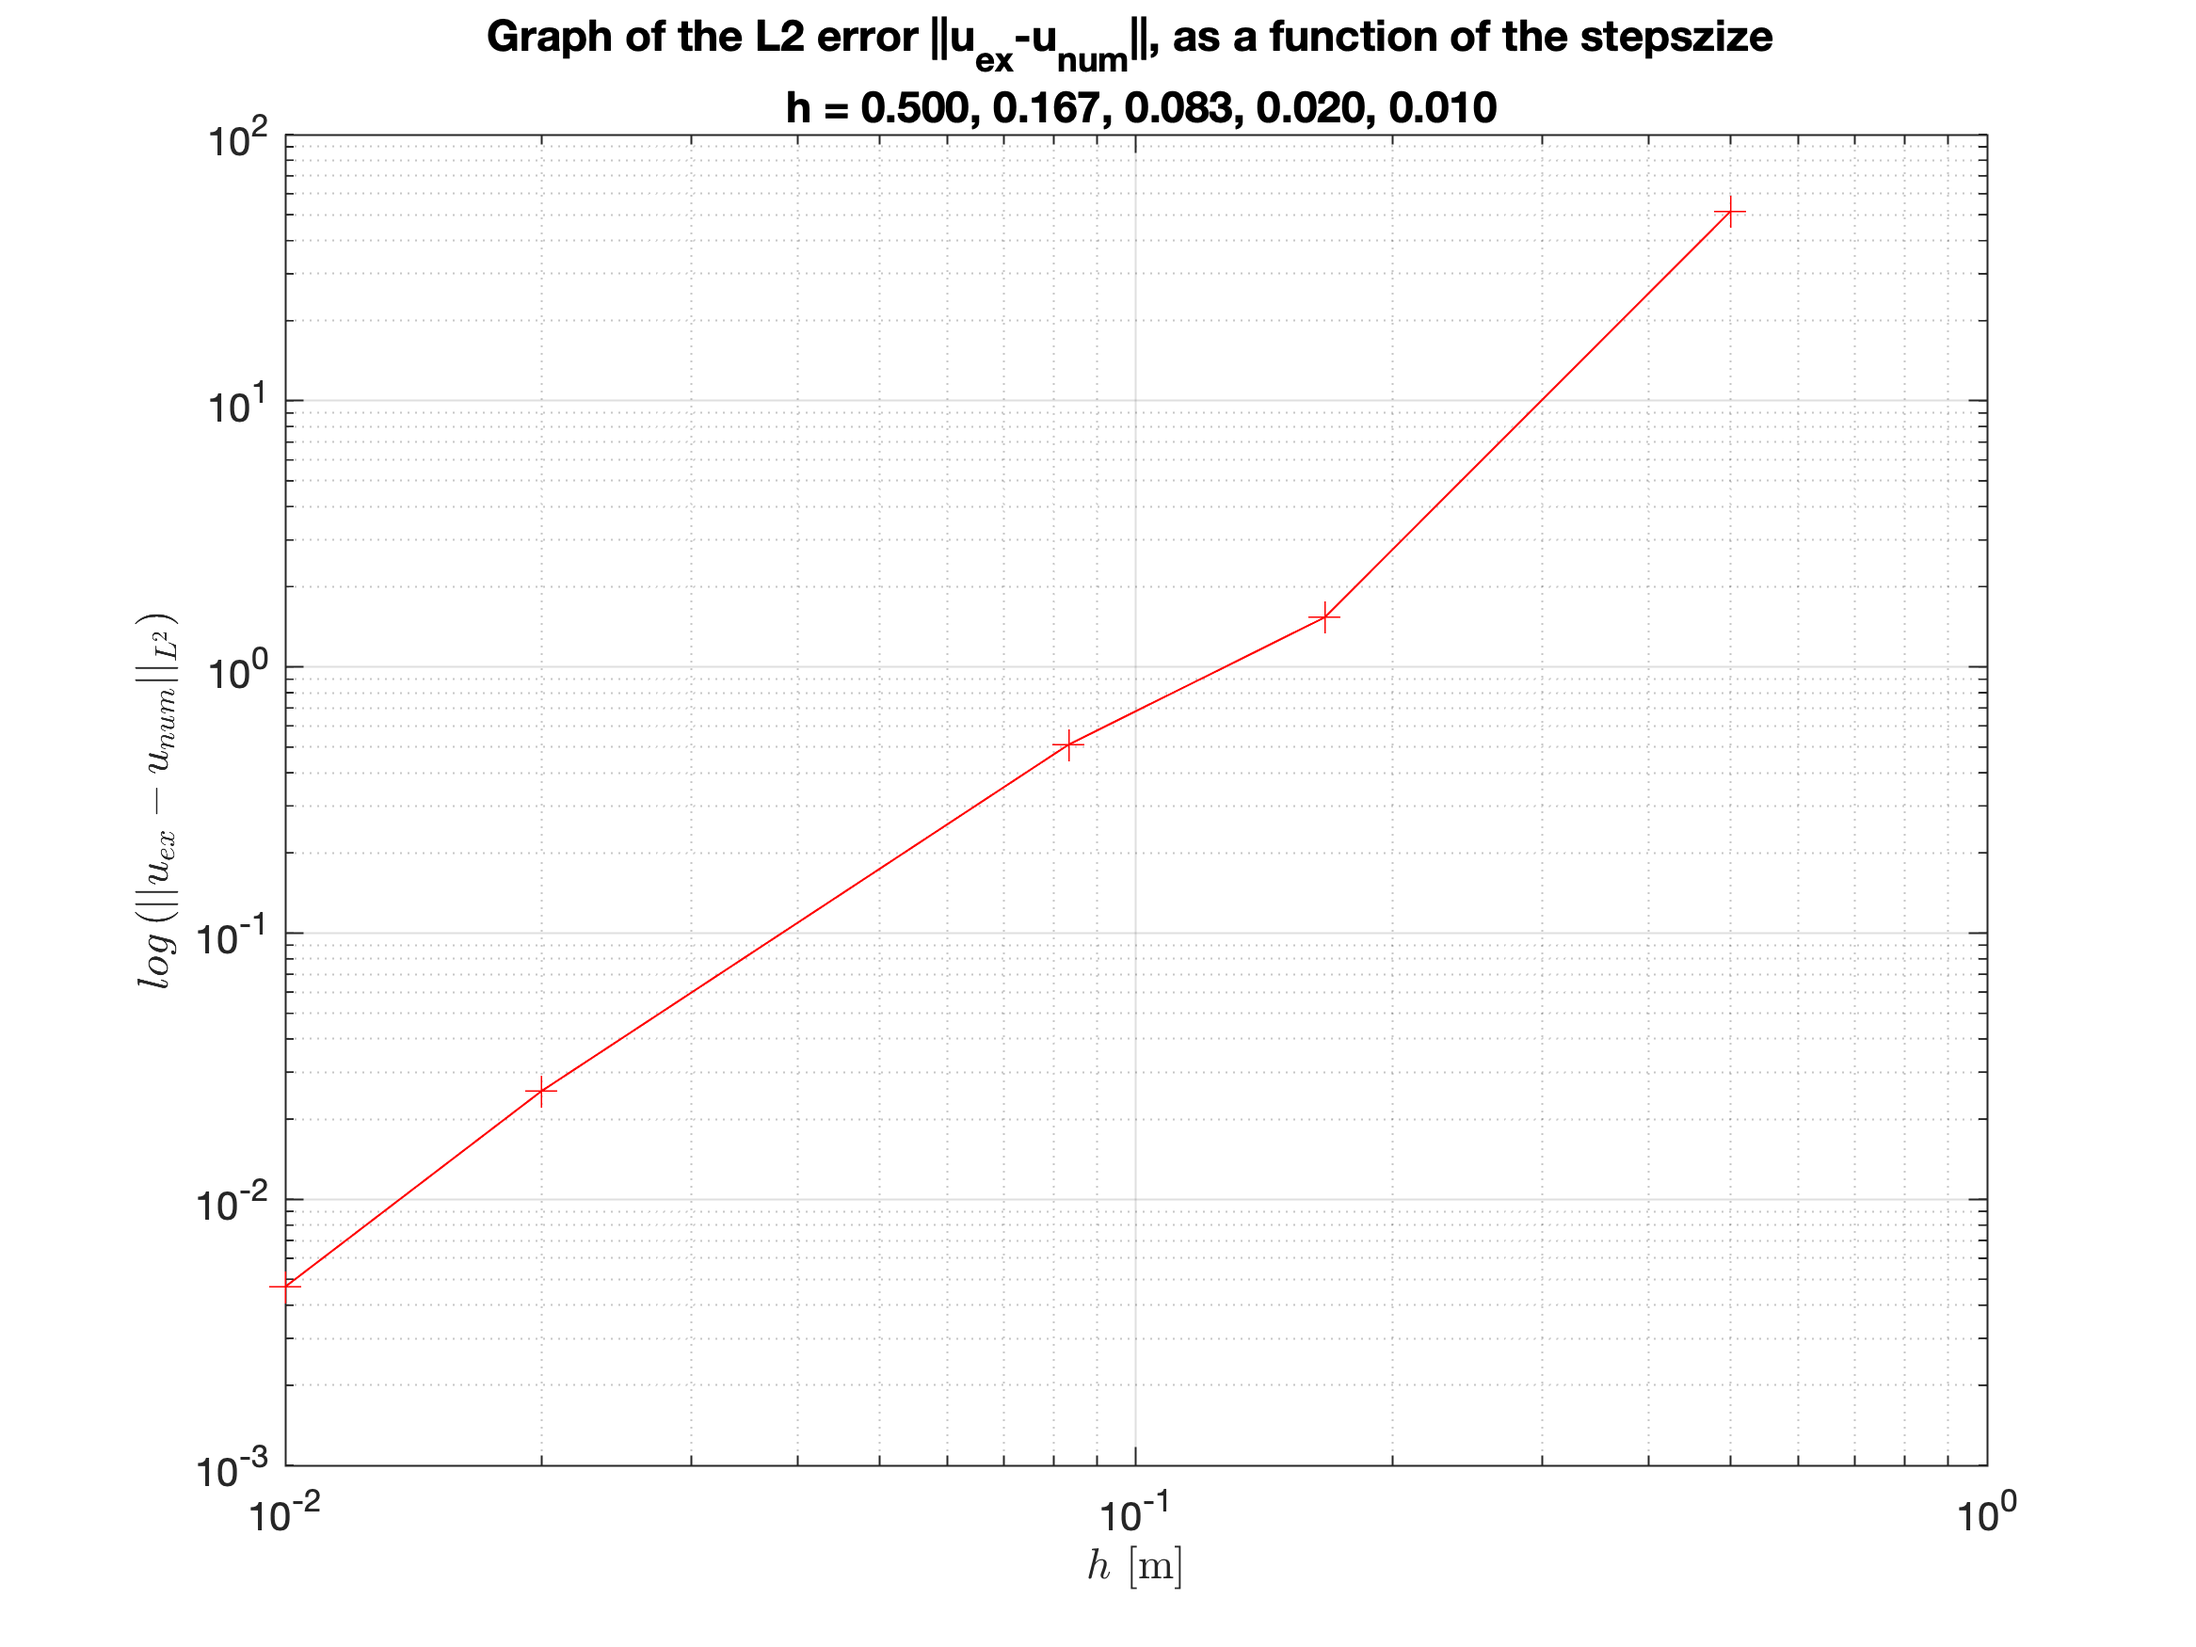
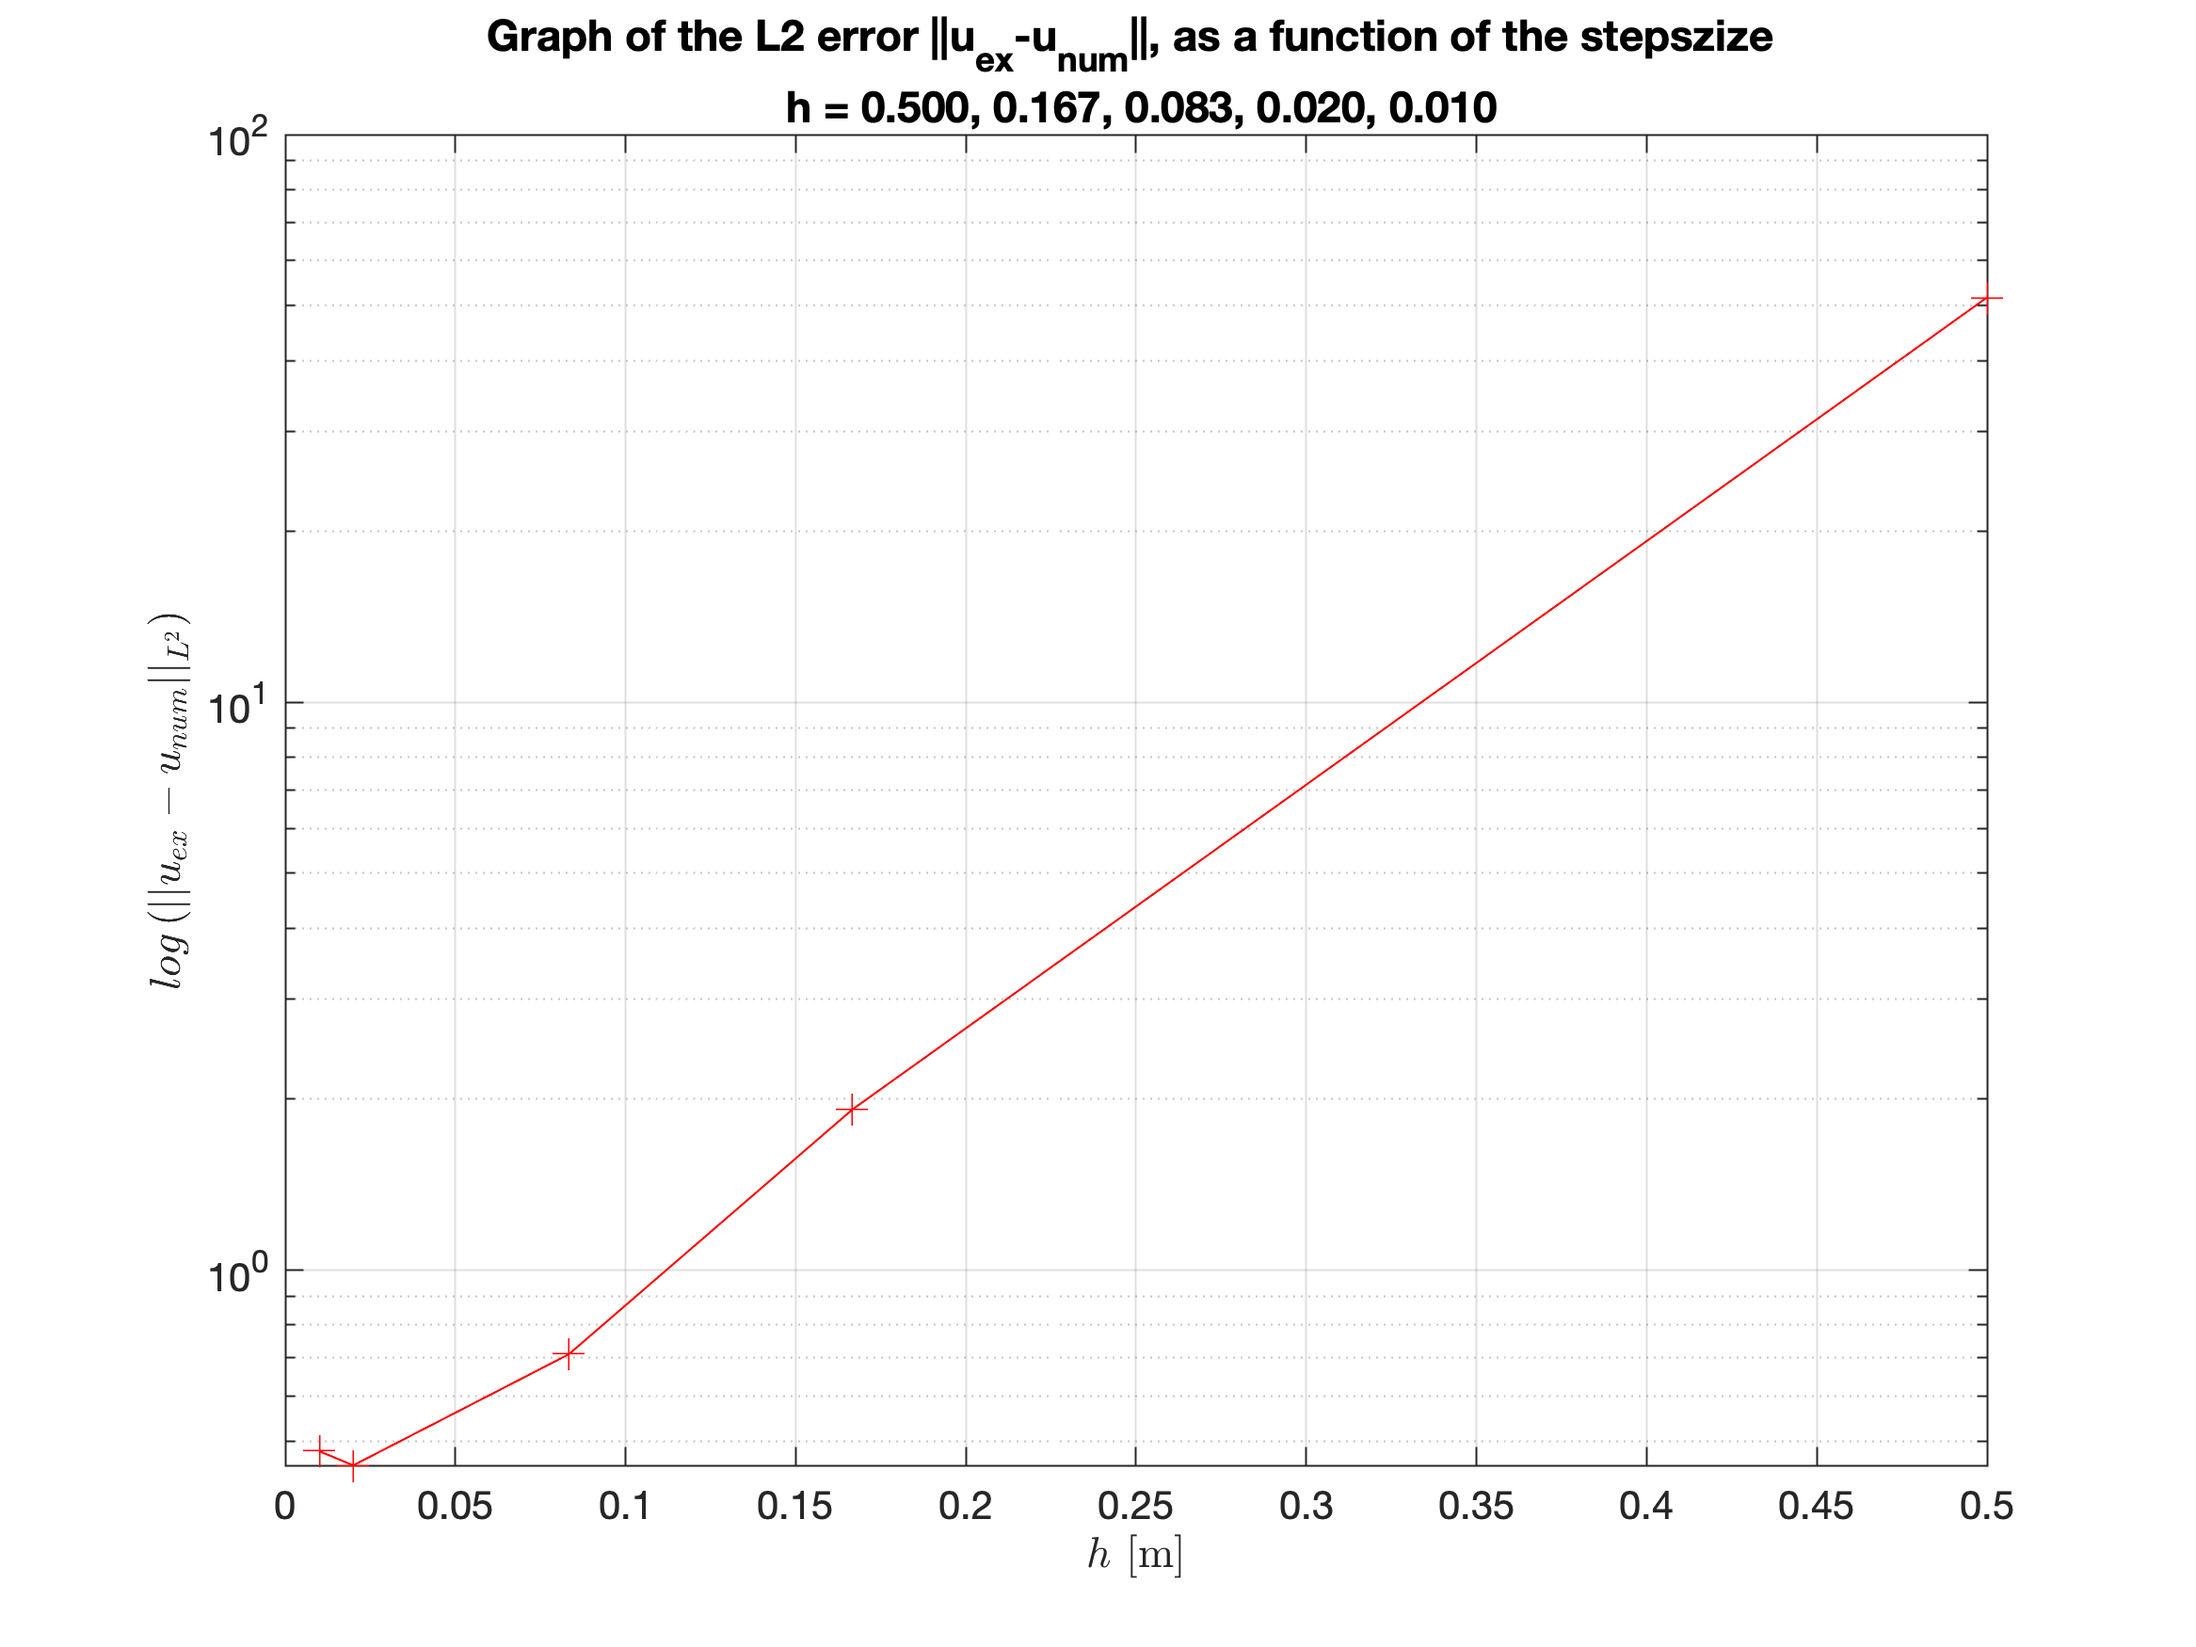
better again

diff --git a/HW1/Pipeline/createData.m b/HW1/Pipeline/createData.m
@@ -24,7 +24,7 @@ if strcmp(TestName,'TestHW1_2a')
     Data.omega = omega;
 
     x = linspace(0,L, numEl);
-    Data.x = x;
+    Data.x = x.';
 
     % Compute mu(x) values
     mu_values = Data.mu(x);
@@ -91,7 +91,7 @@ elseif strcmp(TestName,'TestHW1_2b')
 
     Data.omega = omega;
 
-    x = linspace(0,L, numEl);
+    x = linspace(0,L, numEl).';
     Data.x = x;
 
     % Compute mu(x) values
@@ -100,11 +100,11 @@ elseif strcmp(TestName,'TestHW1_2b')
     dmu_dx = diff(mu_values) ./ diff(x);
 
     % Putting the last point equal its predecessor
-    Data.mu_x =  [dmu_dx, dmu_dx(end)];  % NaN for the last value (since diff reduces size)
+    Data.mu_x =  [dmu_dx; dmu_dx(end)];  % NaN for the last value (since diff reduces size)
     
     % d(mu * d(u_ex/dx))/dx
     d_mu_u_ex_x = diff(Data.mu(x) .* Data.uex_x(x) ) ./ diff(x);
-    Data.d_mu_u_ex_x  =  [d_mu_u_ex_x , d_mu_u_ex_x(end)];  % NaN for the last value (since diff reduces size)
+    Data.d_mu_u_ex_x  =  [d_mu_u_ex_x ; d_mu_u_ex_x(end)];  % NaN for the last value (since diff reduces size)
 
     Data.alpha = Data.mu(L) .* Data.rho(L) * Data.omega ; % We're interested only in alpha(end), i.e. at x=L
     
@@ -135,7 +135,7 @@ elseif strcmp(TestName,'TestHW1_3a')
     Data.c = @(x) ones(size(x));
     Data.rho = @(x) 5* ones(size(x));
 
-    x = linspace(0,L, numEl);
+    x = linspace(0,L, numEl).';
     Data.x = x;
 
     Data.mu =@(x)  Data.rho(x);
@@ -149,7 +149,7 @@ elseif strcmp(TestName,'TestHW1_3a')
     dmu_dx = diff(mu_values) ./ diff(x);
 
     % Putting the last point equal its predecessor
-    Data.mu_x =  [dmu_dx, dmu_dx(end)];  % NaN for the last value (since diff reduces size)
+    Data.mu_x =  [dmu_dx; dmu_dx(end)];  % NaN for the last value (since diff reduces size)
     
     % d(mu * d(u_ex/dx))/dx
     % d_mu_u_ex_x = diff(Data.mu(x) .* Data.uex_x(x) ) ./ diff(x);
@@ -159,7 +159,7 @@ elseif strcmp(TestName,'TestHW1_3a')
 
     Data.alpha = Data.mu(L) .* Data.rho(L) * Data.omega ; % We're interested only in alpha(end), i.e. at x=L
     
-    Data.force = @(x) zeros(size(x)).';
+    Data.force = @(x) zeros(size(x));
 
     %  % Non constant profiles
     % Data.force = @(x) Data.rho(x) .* Data.omega .* Data.uex(x) + Data.d_mu_u_ex
@@ -185,7 +185,7 @@ elseif strcmp(TestName,'TestHW1_3b')
     Data.c = @(x) (x >= 0 & x <= L/2) .* 0.1 + (x > L/2 & x <= L) .* 2;
     Data.rho = @(x) 5* ones(size(x));
 
-    x = linspace(0,L, numEl);
+    x = linspace(0,L, numEl).';
     Data.x = x;
 
     Data.mu =@(x)  (Data.c(x)).^2 .*Data.rho(x);
@@ -199,7 +199,7 @@ elseif strcmp(TestName,'TestHW1_3b')
     dmu_dx = diff(mu_values) ./ diff(x);
 
     % Putting the last point equal its predecessor
-    Data.mu_x =  [dmu_dx, dmu_dx(end)];  % NaN for the last value (since diff reduces size)
+    Data.mu_x =  [dmu_dx; dmu_dx(end)];  % NaN for the last value (since diff reduces size)
     
     % d(mu * d(u_ex/dx))/dx
     % d_mu_u_ex_x = diff(Data.mu(x) .* Data.uex_x(x) ) ./ diff(x);
@@ -208,7 +208,7 @@ elseif strcmp(TestName,'TestHW1_3b')
 
     Data.alpha = Data.mu(L) .* Data.rho(L) * Data.omega ; % We're interested only in alpha(end), i.e. at x=L
     
-    Data.force = @(x) zeros(size(x)).';
+    Data.force = @(x) zeros(size(x));
 
     %  % Non constant profiles
     % Data.force = @(x) Data.rho(x) .* Data.omega .* Data.uex(x) + Data.d_mu_u_ex

diff --git a/HW1/Main.m b/HW1/Main.m
@@ -67,6 +67,7 @@ L{end+1} =  'exact solution';
 for i = 1:length(datas)
     x_axis = datas(i).data.x;
     sol_num_i = datas(i).sol;
+    % disp([' i =', num2str(i), ' size(sol_num) = ', num2str(size(sol_num_i)) ]);
 
     plot(x_axis , sol_num_i , markOpts(i), 'Color', colorOpts(i), 'LineWidth', lineWidths(i));
 
@@ -103,7 +104,7 @@ ylabel('$log \left( || u_{ex} - u_{num}||_{L^2} \right)$', Interpreter='latex')
 xlabel('$h$ [m]', Interpreter='latex');
 
 
-% print('Q2a_L2_error', '-dpng', '-r300'); % 300 DPI resolution
+print('Q2a_L2_error', '-dpng', '-r300'); % 300 DPI resolution
 
 slopes = zeros(length(datas) -1,1);
 for i = 2 :length(datas)
@@ -193,7 +194,7 @@ titleText = sprintf('Graph of the L2 error ||u_{ex}-u_{num}||, as a function of 
 
 figure();
 
-loglog(h_vals, L2_errors, '-+r', MarkerSize=8);
+semilogy(h_vals, L2_errors, '-+r', MarkerSize=8);
 grid on;
 
 title(titleText);
@@ -207,15 +208,15 @@ slopes = zeros(length(datas) -1,1);
 for i = 2 :length(datas)
     slopes(i-1) = ( log(L2_errors(1) - L2_errors(i)) ) / log((h_vals(1) - h_vals(i) ));
 end
+
 avg_slope = mean(slopes);
-% slope =  ( log(L2_errors(1) - L2_errors(5)) ) / log((h_vals(1) - h_vals(5) ))
 
 %% Question 3a
 L = 5;
 f0 = 3;
 N_pts = 1 + 30 * f0 * L;
 
-omegaList = [0.1 , 1, 5, 10, 20];
+omegaList = [0.1 , 1 , 2 , 5];
 
 TestName = 'TestHW1_3a';
 
@@ -229,10 +230,10 @@ for i = 1 : length(omegaList)
     [sol, mesh, data] = getResults(Data, N_pts);
 
     % Store results in the datas structure
-    datas(i).n_pts = N_pts;  % Store nEl value
-    datas(i).sol = sol;  % Store solution
-    datas(i).mesh = mesh; % Store mesh structure
-    datas(i).data = data; % Store data structure
+    datas(i).n_pts = N_pts;  % Store N_pts value
+    datas(i).sol = sol;      % Store solution
+    datas(i).mesh = mesh;    % Store mesh structure
+    datas(i).data = data;    % Store data structure
 end
 
 
@@ -243,6 +244,9 @@ figure();
 for i = 1:length(datas)
     x_axis = datas(i).data.x;
     sol_num_i = datas(i).sol;
+
+
+    disp(size(sol_num_i));
 
     plot(x_axis , sol_num_i ); % , markOpts(i), 'Color', colorOpts(i), 'LineWidth', lineWidths(i));
     hold on;
@@ -261,7 +265,7 @@ L = 5;
 f0 = 3;
 N_pts = 1 + 30 * f0 * L;
 
-omegaList = [0.1 , 1, 2, 5];
+omegaList = [0.5 , 1, 1.5, 5 , 20];
 
 TestName = 'TestHW1_3b';
 
@@ -301,14 +305,14 @@ xlabel('x [m]');
 ylabel('amplitude');
 
 %% Question 4 
-T = 5;
+T = 2;
 dt = 1e-3;
 N_inst = T / dt + 1;
 t = linspace(0,T, N_inst );
 
 L = 5;
 f0 = 3;
-omegaList = [0.1 , 1, 5, 10];
+omegaList = [0.5 , 1, 1.5, 5 , 10];
 
 N_pts = 1 + 30 * f0 * L;
 
@@ -340,7 +344,7 @@ for i = 1:length(omegaList)
     
     % Create surface plot
     subplot(ceil(length(omegaList)/2), 2,i);
-    surf(dataSlice.');
+    surf(dataSlice);
     
     % Formatting
     title(['Surface Plot for \omega = ', num2str(omegaList(i))]);

diff --git a/HW1/Pipeline/getResults.m b/HW1/Pipeline/getResults.m
@@ -17,7 +17,7 @@ plotPhi = false;
 [Phi] = buildPhi(Mesh, plotPhi);
 
 % % Mass matrix assembly;
-fprintf('Building Matrices and Vectors ...\n');
+fprintf('Building M ...\n');
 [M] = buildM(Data, Mesh, Phi);
 
 % Stiffness matrix assembly;
@@ -28,11 +28,11 @@ fprintf('Building A ...\n');
 fprintf('Building R* ...\n');
 [R_star] = buildR_star(Data,Mesh);
 
-fprintf('Building M* ...\n');
+fprintf('Building M* = ( w * M - A - R* ) ...\n');
 M_star = Data.omega * M - A - R_star;
 
 % Excitation force vector
-fprintf('Building F...\n');
+fprintf('Building righ hand side...\n');
 F = Mesh.h * Data.force(Data.x);
 
 % Boundary conditions vector 
@@ -43,13 +43,10 @@ F = F + R_bc;
 %==========================================================================
 % Invert system for solution and extract u;
 %==========================================================================
-fprintf('Computing numerical solution...\n\n');
+fprintf('Computing numerical solution...\n');
 sol = (M_star)\F;
 
 sol = real(sol);
-% sol = sol ./ ( max(sol)) );
-% sol = abs(sol).* exp(1i * angle(sol));
-
 
 
 end
